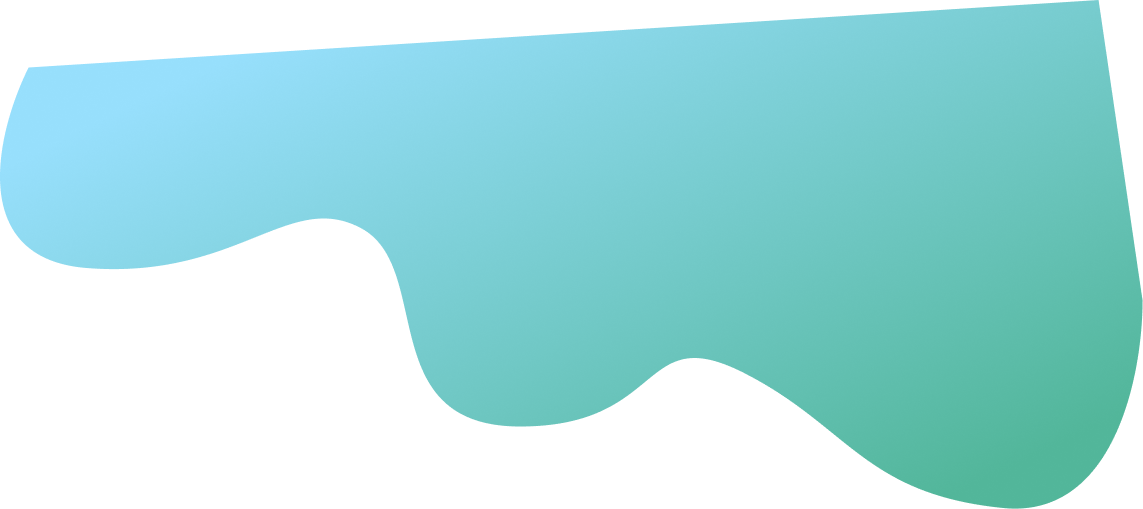
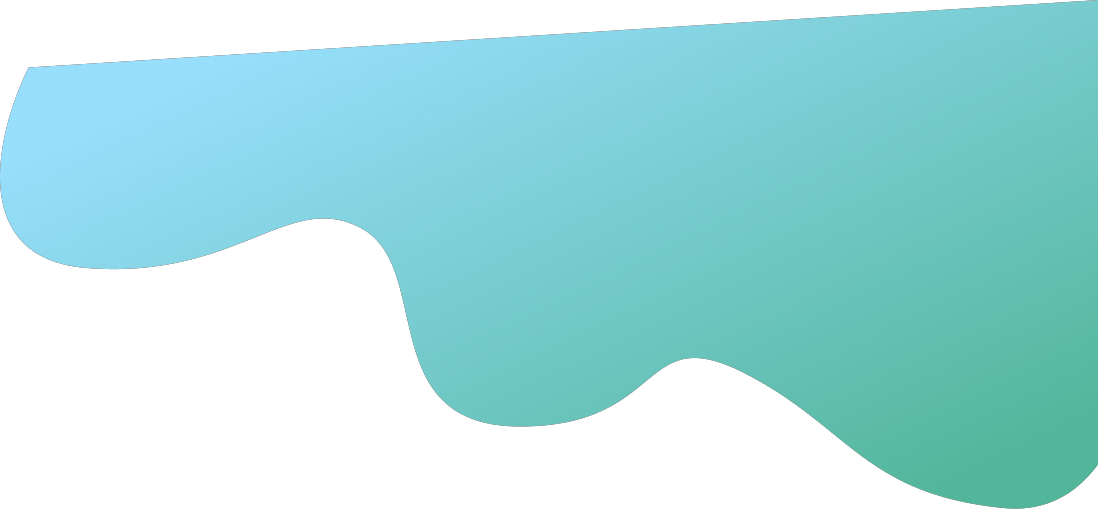
ab
ab

diff --git a/css/style.css b/css/style.css
@@ -10,7 +10,7 @@ body{
 .vec1 img{
     width: 60%;
     position: absolute;
-    right: -20px;
+    right: 0;
     z-index: -1;
     top: -45px;
 }
@@ -112,7 +112,6 @@ nav{
     padding-bottom: 40px;
     margin-left: 20px;
     margin-right: 20px;
-    /* filter: grayscale(100%); */
 }
 
 .project-links a{
